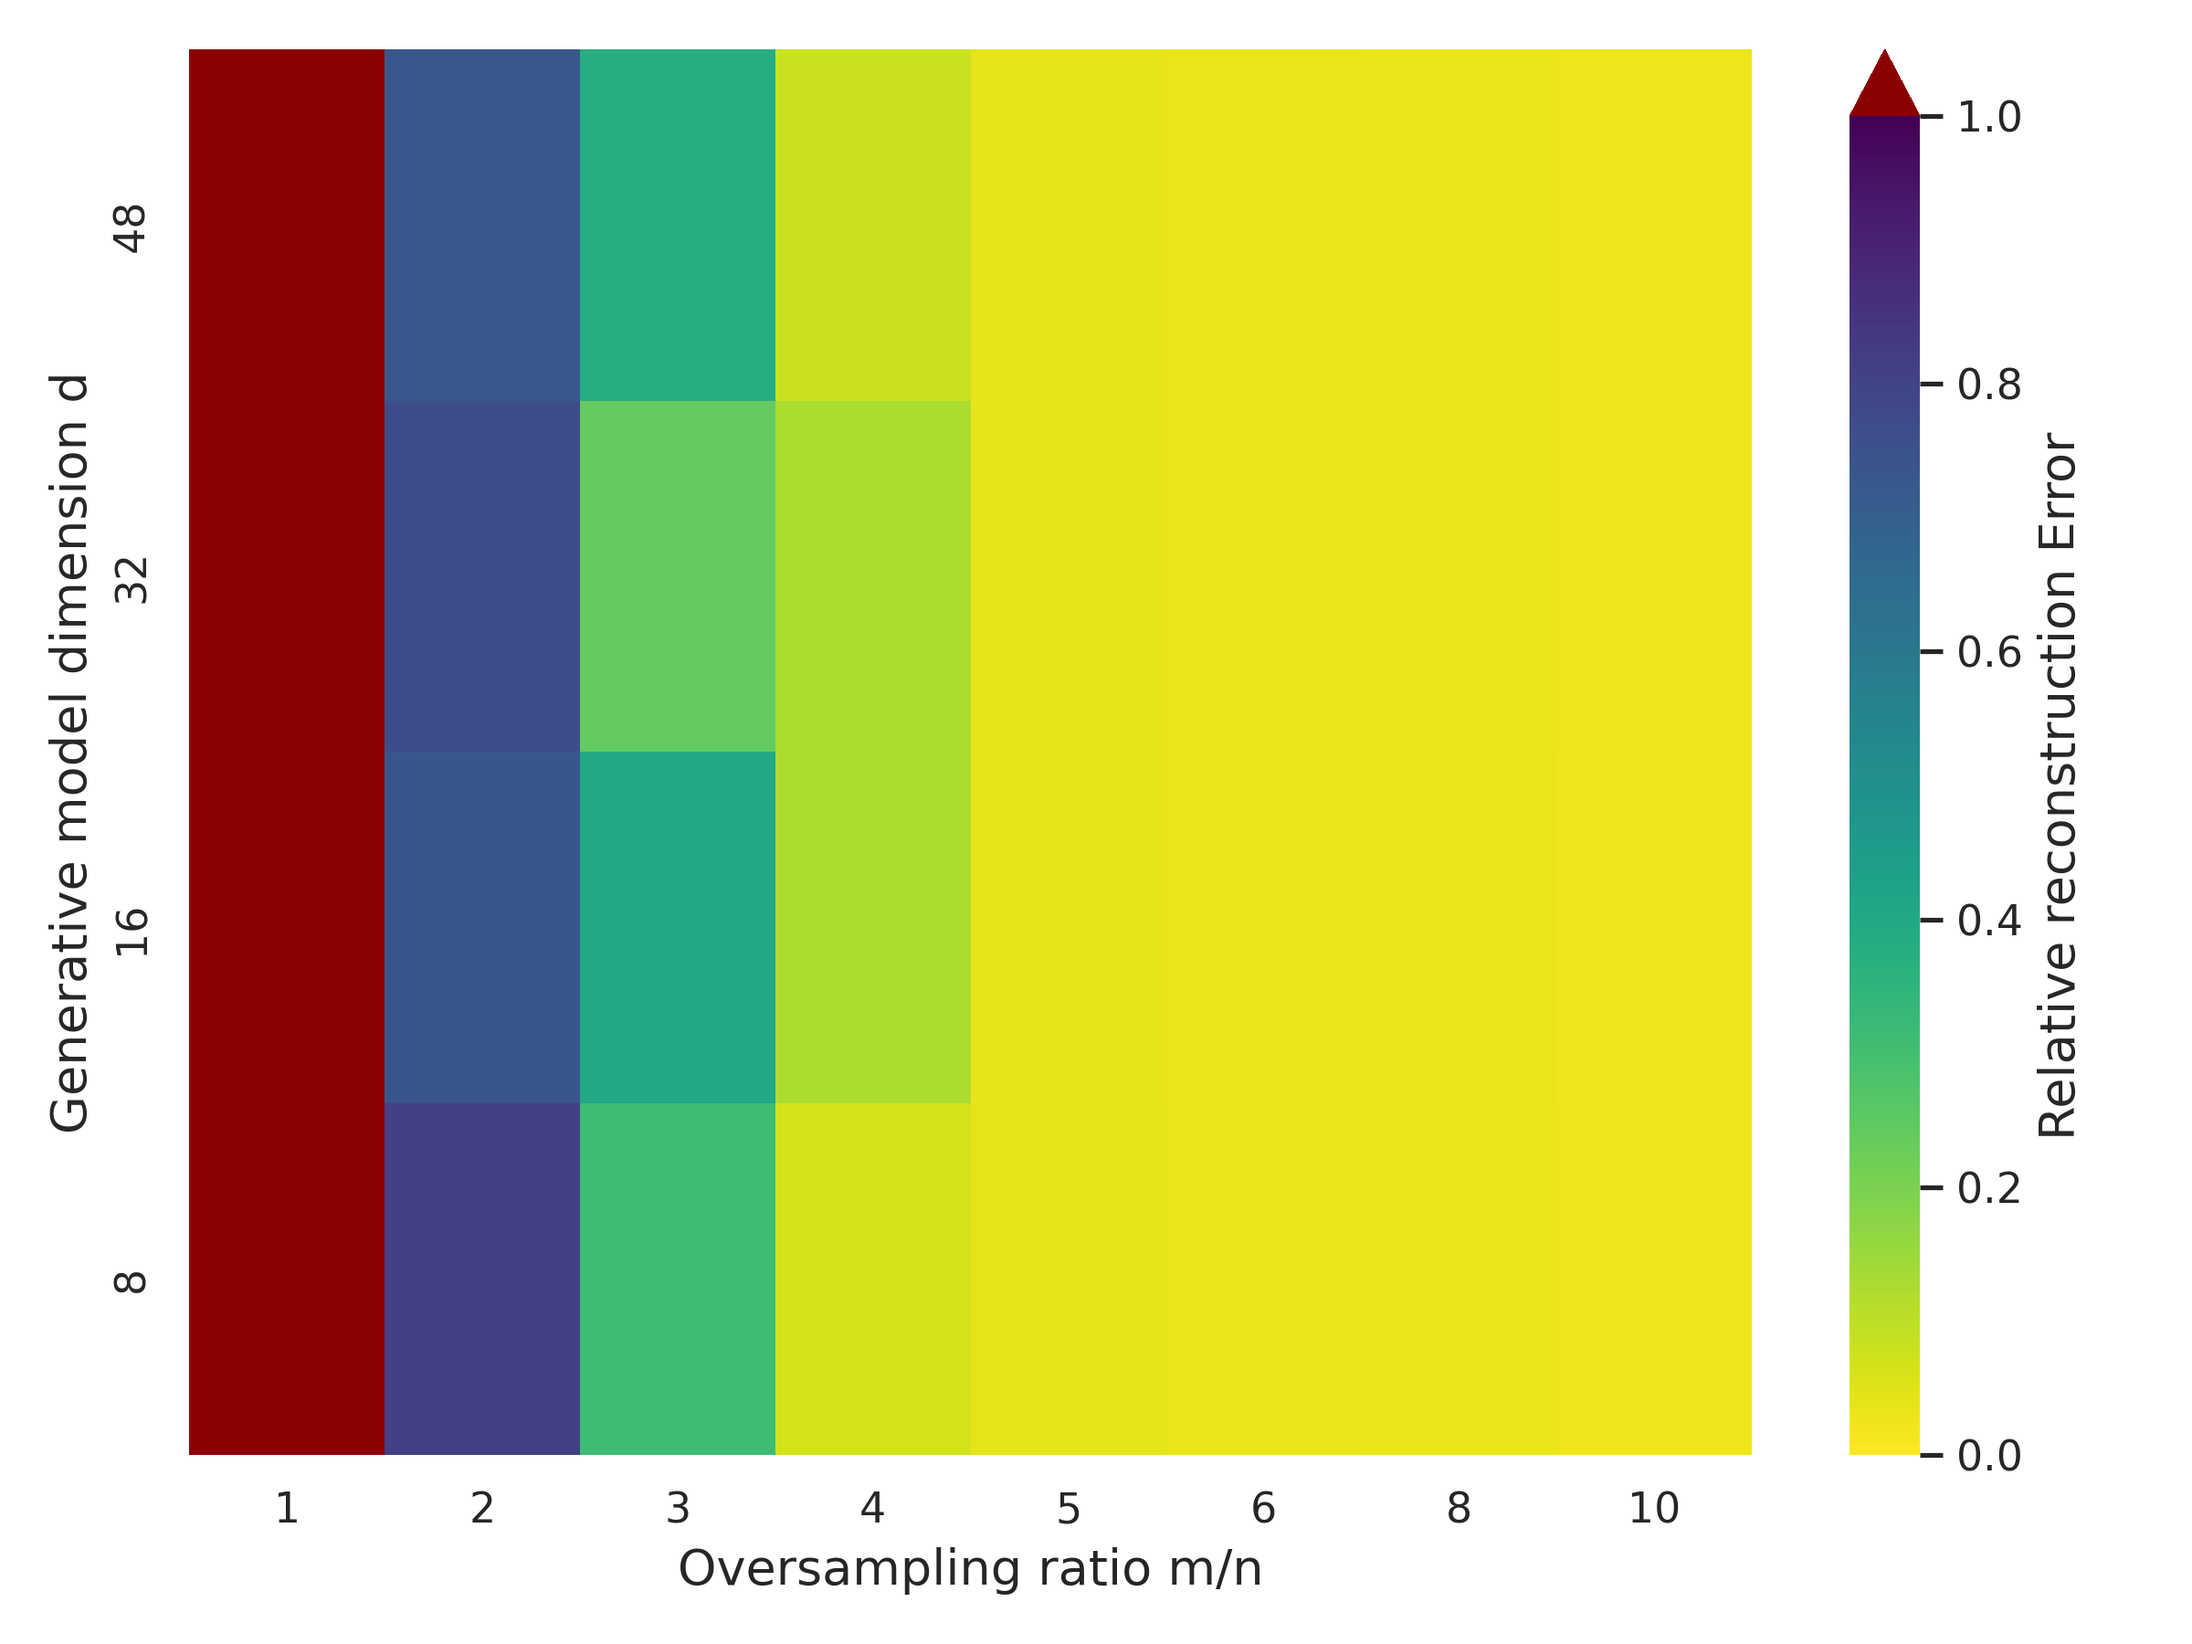
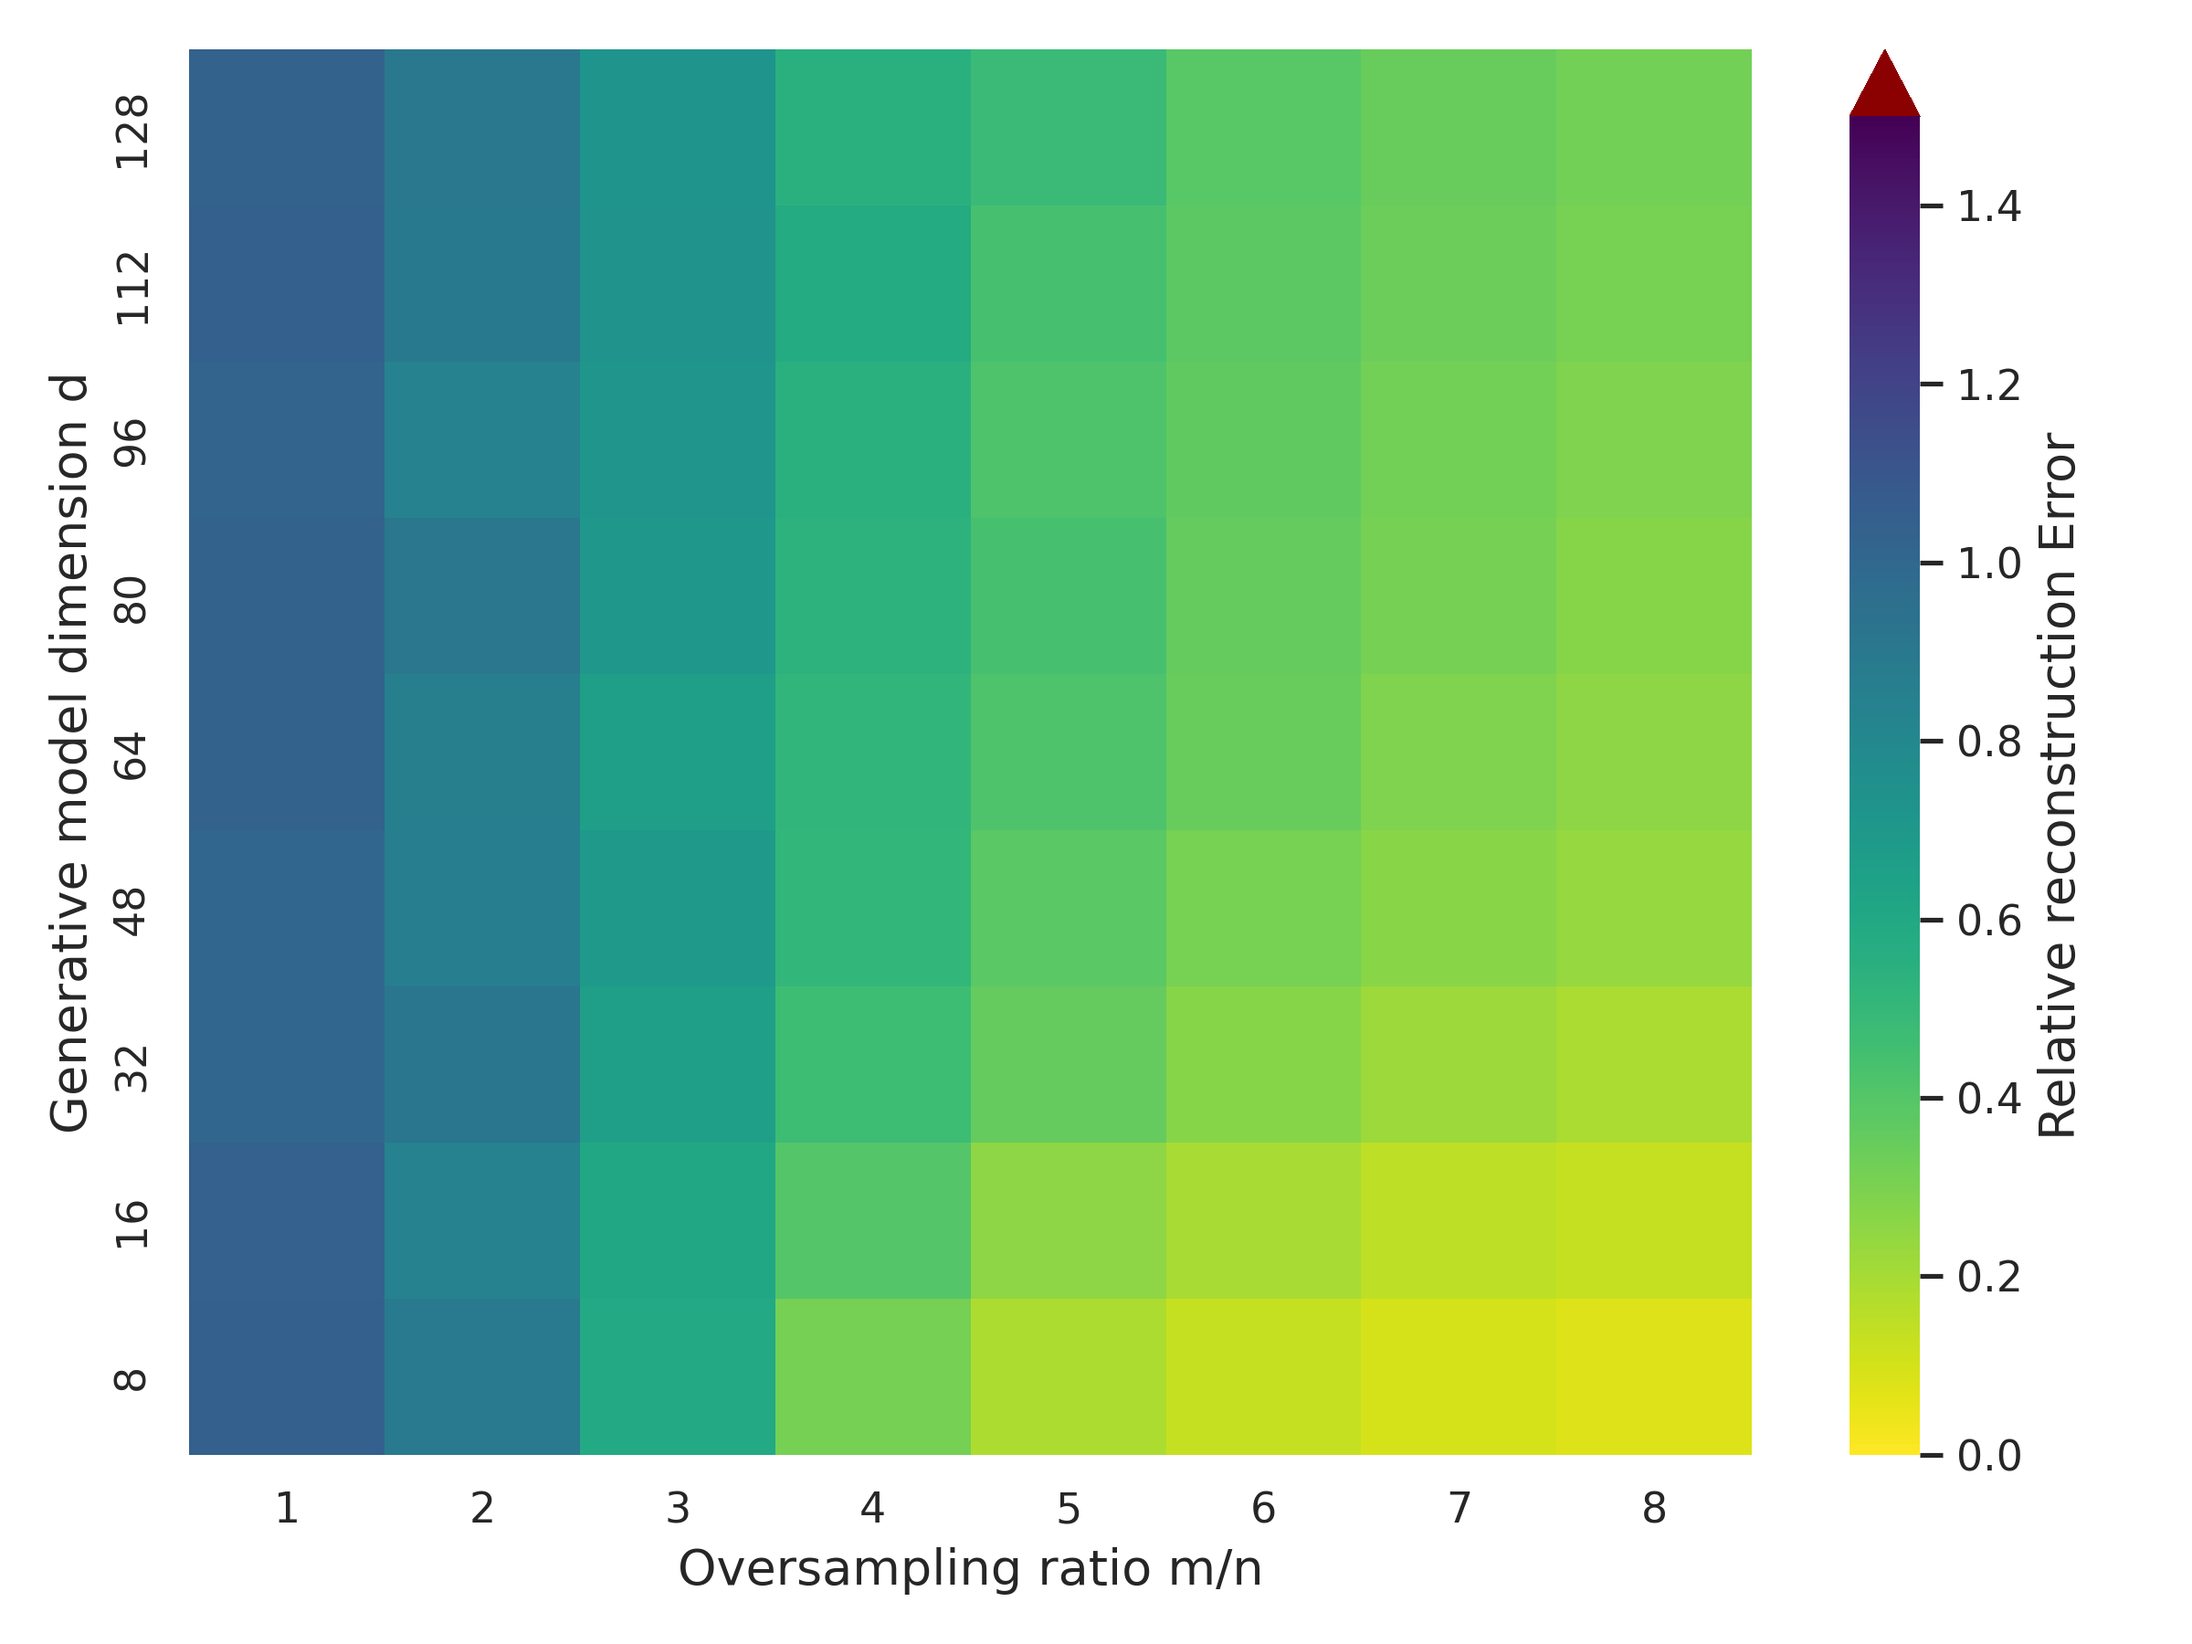
Final working version with the pytorch neural net

diff --git a/src/GenerativeModel/gen_model.py b/src/GenerativeModel/gen_model.py
@@ -1,17 +1,25 @@
+#Pytorch imports
+import torch
+from torch import nn
+from torch.utils.data import DataLoader, Subset
+from torchvision import datasets
+from torchvision.transforms import ToTensor
+
+#Locally defined modules
+from src.ReconstructionAlgorithms.truncatedwf.truncatedwf import truncatedGradient
+from src.Plotting.plotting import plot_heat_map_genmodel
+from src.ReconstructionAlgorithms.truncatedwf.real_truncated_wf import new_trunc_spectral_init
+from src.Initialization.pr_init import generate_gaussian_vector, generate_measurement_matrix, generate_measured, calculate_reconstruction_error, calculate_range
+
+#Other imports
 import numpy as np
 import numpy.typing as npt
-from src.Initialization.pr_init import generate_gaussian_vector, generate_measurement_matrix, generate_measured, calculate_reconstruction_error, calculate_range
 from concurrent.futures import ProcessPoolExecutor
 from itertools import product
 import math
 import os
-import torch
-from torch import nn
-from src.ReconstructionAlgorithms.truncatedwf.truncatedwf import truncatedGradient
-from src.Plotting.plotting import plot_heat_map_genmodel
-from src.ReconstructionAlgorithms.truncatedwf.real_truncated_wf import new_trunc_spectral_init
 
-
+#GPU detection.
 device = torch.accelerator.current_accelerator().type
 
 MAX_ITER: int = 300
@@ -19,10 +27,14 @@ alpha_fs = 3     #Paper states >= 3
 alpha_f_lb = 0.3     #Paper states should be 0 <= alpha <= 0.5
 alpha_f_ub = 5     #Paper states that >= 5
 
+#######################################################################################################################################
+#Defining the generative model plus accessory functions
+#######################################################################################################################################
 class G_Model(nn.Module):
     def __init__(self, d: int, n: int):
         super().__init__()
         self.flatten = nn.Flatten()
+        #hidden = max(n, 2 * d)
         self.linear_relu_stack = nn.Sequential(
             nn.Linear(d, n),
         )
@@ -40,8 +52,67 @@ def G(model, X):
     return logits.squeeze(0)
 
 def freeze_model(model):
-    for param in model.Parameters():
+    for param in model.parameters():
         param.requires_grad = False
+
+
+#######################################################################################################################################
+# Data loading
+#######################################################################################################################################
+
+training_size = 10000
+validation_size = 100
+
+training_dataset = datasets.MNIST(
+    root="data",
+    train=True,
+    download=True,
+    transform=ToTensor()
+)
+
+training_data = torch.randperm(len(training_dataset))[:training_size]
+
+test_dataset = datasets.MNIST(
+    root="data",
+    train=False,
+    download=True,
+    transform=ToTensor()
+)
+
+test_data = torch.randperm(len(test_dataset))[:validation_size]
+
+train_dataloader = DataLoader(training_data, batch_size=64)
+test_dataloader = DataLoader(test_data, batch_size=64)
+
+def flatten_data(dataloader):
+    X = []
+    for images, _ in dataloader:
+        images = images.view(images.size(0), -1)
+        X.append(images)
+    return torch.cat(X, dim=0)
+
+def compute_pca(X, n, d):
+    """
+    Computes the PCA matrix for data matrix X, with embedding dimension k.
+    :param X: Data list
+    :param k: Embedding dimension
+    :param d: Latent dimension
+    :return: A tuple with the bias and the PCA matrix
+    """
+    mu = X.mean(dim=0, keepdim=True)
+    X_centered = X - mu
+
+    U, S, Vt = torch.linalg.svd(X_centered, full_matrices=False)
+
+    components = Vt[:n]
+    return mu, components
+
+def G_pca(mu, U, z):
+    return mu + U @ z
+
+#######################################################################################################################################
+#Calculating reconstruction error
+#######################################################################################################################################
 
 def z_step(model, z, f, lambda_, lr):
     #Sets all previously computed gradients to 0
@@ -50,13 +121,13 @@ def z_step(model, z, f, lambda_, lr):
 
     Gz = G(model, z)
     #print(Gz.grad_fn)
-    loss = lambda_ * torch.norm(Gz - f.detach()) ** 2   #detach() may be wrong.
+    loss = torch.norm(Gz - f.detach()) ** 2   #detach() may be wrong.
     #Update gradients of z
     loss.backward()
     with torch.no_grad():
-        z -= lr * z.grad
+        z -= lr * lambda_ * z.grad
 
-    return z
+    return z.detach().requires_grad_(True)
 
 def poisson_wirtinger_grad(A, f, y, alpha_fs):
     eps = 1e-10
@@ -85,52 +156,57 @@ def poisson_wirtinger_grad(A, f, y, alpha_fs):
 
     return A.T @ weights
 
-def optimize_model(d: int, n: int, m: int, A: npt.NDArray[np.float64], y: npt.NDArray[np.float64]) -> npt.NDArray[np.float64]:
-    model = G_Model(d,n).to(device)
+def optimize_model(d: int, n: int, m: int, A: npt.NDArray[np.float64], y: npt.NDArray[np.float64], model) -> npt.NDArray[np.float64]:
+    #model = G_Model(d,n).to(device)
     #freeze_model(model)
     mu = 0.2
-    lambda_ = 1
-    stepsize = mu / m
+    lambda_ = 5 * math.sqrt(d)
+    stepsize = mu / (lambda_ * m)
+    z_lr = 0.1 / lambda_
 
     f = torch.from_numpy(new_trunc_spectral_init(A, y, n, m, alpha_fs, True)).to(device)
     z = torch.randn(d, requires_grad = True, device=device) #Zoek hier nog een daadwerkelijk goeie initializer voor.
+
     A = torch.from_numpy(A).to(device)
     y = torch.from_numpy(y).to(device)
     for _ in range(0, MAX_ITER):
         #We first do one iteration of optimzation for f, with fixed z.
         #For this we use Truncated wirtinger flow.
-        grad_f_torch = poisson_wirtinger_grad(A, f, y, alpha_fs) + 2 * (f - G(model, z))
+        grad_f_torch = poisson_wirtinger_grad(A, f, y, alpha_fs) + 2 * lambda_ * (f - G(model, z))
 
         f = f - stepsize * grad_f_torch
-        z = z_step(model, z, f, lambda_, 0.1)
+        z = z_step(model, z, f, lambda_, z_lr)
 
     return f.detach().cpu().numpy()
 
 def calc_reconstruction_error(inputs) -> (int, int, float):
-    n = 64
-    d = inputs[0]
+    n = 128
+    d = inputs[0][0]
+    model = inputs[0][1]
+    model.to(device)
+    freeze_model(model)
     oversampling = inputs[1]
     m = oversampling * n
 
-
-    ground_truth = generate_gaussian_vector(n) * 10
-    measurement_maps = [generate_measurement_matrix(n, m) for _ in range(0, 30)]
+    ground_truth = generate_gaussian_vector(n) * 100
+    measurement_maps = [generate_measurement_matrix(n, m) for _ in range(0, 50)]
     measurements = [generate_measured(M, ground_truth, m) for M in measurement_maps]
 
-    estimators = [optimize_model(d, n, m, A, y) for A, y in zip(measurement_maps, measurements)]
+    estimators = [optimize_model(d, n, m, A, y, model) for A, y in zip(measurement_maps, measurements)]
     errors = list(map(lambda estimate: calculate_reconstruction_error(estimate, ground_truth), estimators))
 
-    print(str(inputs) + " , Completed")
-    average = sum(errors) / (10 * len(errors))
+    average = sum(errors) / (100 * len(errors))
 
+    print(str(inputs[0][0]) +"," + str(inputs[1]) + " , Completed " + ", Average: " + str(average))
     return d, oversampling, average
 
 
 def run_simulation():
-     neural_net_dim = [8, 16, 32, 48]
-     oversampling = [1, 2, 3, 4, 5, 6, 8, 10]
+     neural_net_dim = [8, 16, 32, 48, 64, 80, 96, 112, 128]
+     models = [G_Model(d, 128) for d in neural_net_dim]
+     oversampling = [1, 2, 3, 4, 5, 6, 7, 8]
 
-     jobs = list(product(neural_net_dim, oversampling))
+     jobs = list(product(zip(neural_net_dim, models), oversampling))
 
      all_results = list(map(calc_reconstruction_error, jobs))
      #with ProcessPoolExecutor() as executor:

diff --git a/src/Plotting/plotting.py b/src/Plotting/plotting.py
@@ -211,7 +211,7 @@ def plot_heat_map_genmodel(ks, ms, error_matrix, norm_f0):
         df,
         cmap=color_map,
         vmin=0,
-        vmax=1,
+        vmax=1.5,
         cbar_kws={
             "label": "Relative reconstruction Error",
             "extend": "max"
